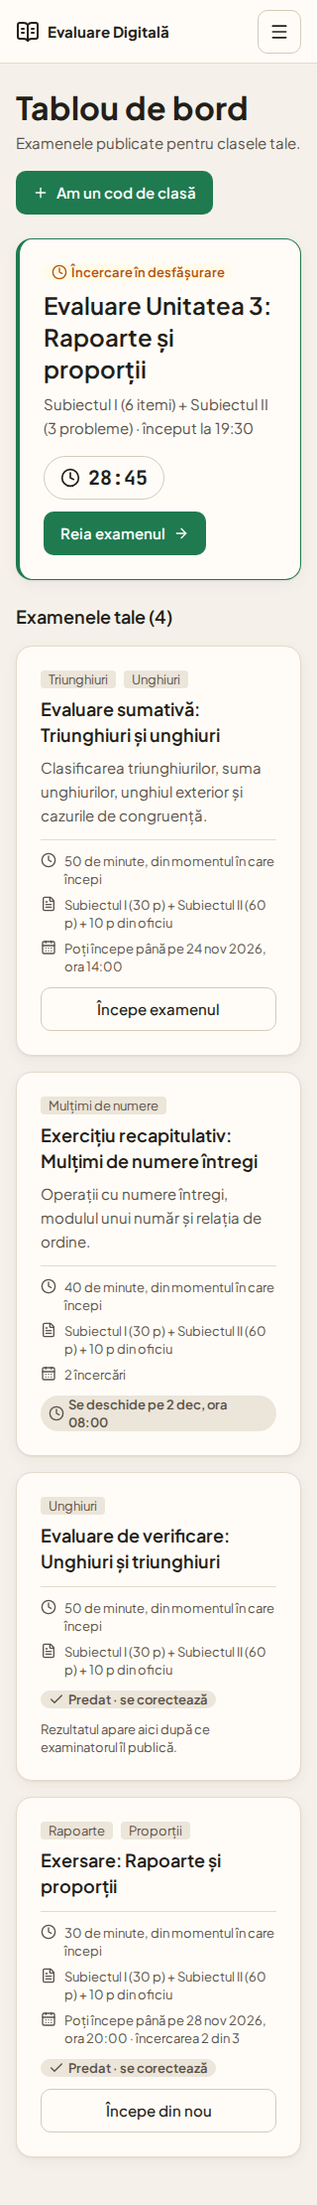
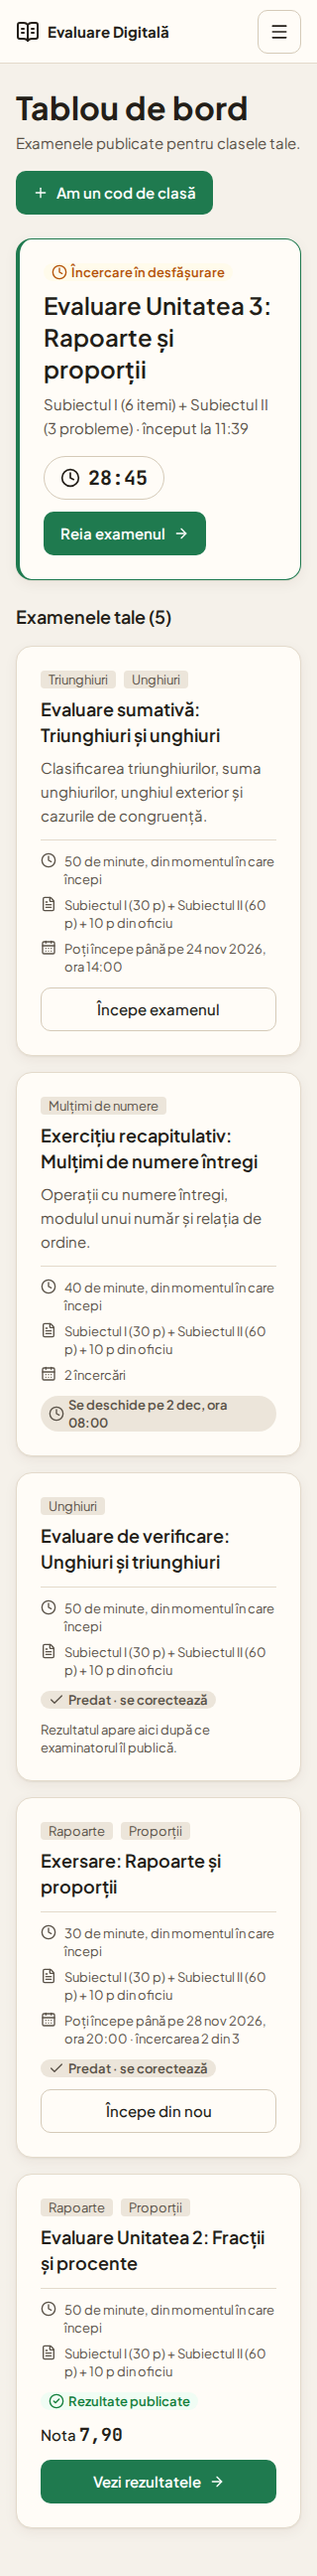
docs(design): DS-005 screenshots (one Attempt, several, long title, not published, error) and DS-003 with the results card, light and dark at 1440 and 320 px; registry: DS-005 implemented (P8b)

diff --git a/frontend/e2e/results.spec.ts b/frontend/e2e/results.spec.ts
@@ -1,0 +1,86 @@
+import { fileURLToPath } from 'node:url'
+import { expect, test, type Page } from '@playwright/test'
+
+// DS-005 screenshots (P8b) with the mock's sample data, compared by eye with docs/design/mocks/DS-005.html.
+const me = { id: 7, first_name: 'Andrei', last_name: 'Ionescu', name: 'Andrei Ionescu', email: 'andrei@exemplu.ro', role: 'candidate', is_active: true, must_change_password: false }
+const s1 = [
+  { position: 1, section: 'subject_1', type: 'single_choice', points: 5, statement: 'Trei sferturi din 48 reprezintă …', options: ['12', '36', '32', '64'],
+    answer: 2, awarded_points: 5, correct: 2, explanation: 'Un sfert din 48 este 12, deci trei sferturi sunt 36.' },
+  { position: 4, section: 'subject_1', type: 'short_answer', points: 5, options: [], answer: '20', awarded_points: 0, correct: '12', explanation: null,
+    statement: 'Numerele a și b sunt direct proporționale cu 3 și 5, iar a + b = 32. Numărul a este egal cu …' },
+  { position: 5, section: 'subject_1', type: 'dual_choice', points: 5, statement: 'Orice număr întreg negativ este mai mic decât 0.', options: [], answer: null, awarded_points: 0, correct: true, explanation: null },
+]
+const barem = [
+  ['Triunghi isoscel ⇒ ∢B = ∢C', 3, 3], ['∢B + ∢C = 140°', 3, 3], ['∢B = 70°', 2, 2], ['Bisectoarea AD, triunghiurile ABD și ACD', 2, 2],
+  ['△ABD ≅ △ACD (LUL), cu justificare', 5, 3], ['BD = DC ⇒ AD mediană', 5, 0],
+].map(([description, points, earned]) => ({ description, points, earned }))
+const s2 = [
+  { position: 7, section: 'subject_2', type: 'structured_problem', points: 20, options: [], awarded_points: 14, adjustment: 1, uses_barem: true, barem,
+    statement: 'În triunghiul ABC, AB = AC și ∢A = 40°. a) Calculează ∢B. b) Arată că bisectoarea din A este și mediană.',
+    answer: 'a) ABC isoscel ⇒ ∢B = ∢C. ∢B + ∢C = 180° − 40° = 140° ⇒ ∢B = 70°.\nb) AD bisectoare. △ABD și △ACD: AB = AC, ∢BAD = ∢CAD, AD comună ⇒ congruente.',
+    images: [{ id: 1, position: 1, name: 'pagina-1.jpg', size: 1 }, { id: 2, position: 2, name: 'pagina-2.jpg', size: 1 }],
+    comment: 'La b) lipsește concluzia BD = DC; justificarea congruenței e incompletă.' },
+  { position: 8, section: 'subject_2', type: 'structured_problem', points: 20, options: [], awarded_points: 16, adjustment: null, uses_barem: false, barem: [], images: [],
+    statement: 'Unghiurile AOB și BOC sunt adiacente suplementare, iar ∢AOB = 3 · ∢BOC. Calculează măsurile celor două unghiuri.',
+    answer: '∢AOB + ∢BOC = 180°, 4 · ∢BOC = 180°, ∢BOC = 45°, ∢AOB = 135°.', comment: 'Corect, dar explică de ce suma este 180°.' },
+  { position: 9, section: 'subject_2', type: 'structured_problem', points: 20, options: [], awarded_points: 0, adjustment: null, uses_barem: false, barem: [], images: [],
+    statement: 'Un produs costă 120 de lei. După o reducere de 15%, cât costă produsul?', answer: null, comment: null },
+]
+const attempt = (id: number, number: number, grade: number, counted: boolean, scores = [25, 44]) => ({
+  id, attempt_number: number, submitted_at: '2026-11-30T07:48:00Z', auto_submitted: false, subject_1_score: scores[0], subject_2_score: scores[1],
+  total_score: Math.round(grade * 10), grade, counted, items: [...s1, ...s2],
+})
+const title = (long: boolean) => long
+  ? 'Evaluare națională pregătitoare interdisciplinară de matematică aplicată și raționament logic pentru clasa a VI-a'
+  : 'Evaluare Unitatea 3: Rapoarte și proporții'
+const results = (many: boolean, long = false) => ({
+  exam: { id: 4, title: title(long), score_policy: 'highest', results_published_at: '2026-12-01T16:20:00Z',
+    cohort_note: 'Greșeala cea mai des întâlnită la Subiectul I: confuzia dintre mărimi direct și invers proporționale (itemul 4). La Subiectul II, nu uitați să scrieți concluzia fiecărei demonstrații.' },
+  attempts: many ? [attempt(50, 1, 6.4, false, [20, 34]), attempt(51, 2, 7.9, true)] : [attempt(51, 1, 7.9, true)],
+})
+const photo = (n: number) => `<svg xmlns="http://www.w3.org/2000/svg" viewBox="0 0 300 400"><rect width="300" height="400" fill="#fffdf8"/>${n === 1
+  ? '<path d="M150 60 L40 330 L260 330 Z M150 60 L150 330" fill="none" stroke="#333" stroke-width="3"/>'
+  : [80, 130, 180, 230].map((y, i) => `<line x1="30" y1="${y}" x2="${i % 2 ? 200 : 260}" y2="${y}" stroke="#555" stroke-width="3"/>`).join('')}</svg>`
+
+async function mockResults(page: Page, status: number, body: object) {
+  await page.route('http://localhost:8000/api/**', (route) => {
+    const path = new URL(route.request().url()).pathname.replace(/^\/api/, '')
+    const image = path.match(/\/images\/(\d+)$/)
+    if (image) return route.fulfill({ status: 200, contentType: 'image/svg+xml', body: photo(Number(image[1])) })
+    if (path === '/user') return route.fulfill({ status: 200, contentType: 'application/json', body: JSON.stringify({ user: me }) })
+    return route.fulfill({ status, contentType: 'application/json', body: JSON.stringify(body) })
+  })
+}
+
+function screenshotPath(name: string) {
+  return fileURLToPath(new URL(`../../docs/design/screens/${name}`, import.meta.url))
+}
+
+const graded = (p: Page) => expect(p.getByTestId('grade')).toBeVisible()
+const states = [
+  { name: '', status: 200, body: results(false), ready: graded },
+  { name: 'many', status: 200, body: results(true), ready: graded },
+  { name: 'long', status: 200, body: results(false, true), ready: graded },
+  { name: 'notyet', status: 409, body: { code: 'results_not_published' }, ready: (p: Page) => expect(p.getByRole('heading', { name: 'Rezultatele nu sunt publicate încă' })).toBeVisible() },
+  { name: 'error', status: 500, body: {}, ready: (p: Page) => expect(p.getByRole('alert')).toBeVisible() },
+]
+
+for (const theme of ['light', 'dark'] as const) {
+  for (const width of [1440, 320]) {
+    for (const s of states) {
+      test(`DS-005 ${s.name || 'results'}, ${theme} at ${width} px`, async ({ page }) => {
+        await mockResults(page, s.status, s.body)
+        await page.addInitScript((t) => {
+          localStorage.setItem('auth_token', '1|e2e')
+          localStorage.setItem('theme', t)
+        }, theme)
+        await page.setViewportSize({ width, height: 900 })
+        await page.goto('/candidate/exams/4/results')
+        await s.ready(page)
+        const suffix = width === 320 ? '.320' : ''
+        const name = s.name ? `.${s.name}` : ''
+        await page.screenshot({ path: screenshotPath(`DS-005${name}.${theme}${suffix}.png`), fullPage: true })
+      })
+    }
+  }
+}

diff --git a/frontend/e2e/candidate.spec.ts b/frontend/e2e/candidate.spec.ts
@@ -4,7 +4,7 @@ import { expect, test, type Page } from '@playwright/test'
 // DS-003 screenshots (P7a) with the mock's sample data, compared by eye with
 // docs/design/mocks/DS-003.html.
 const me = { id: 7, first_name: 'Andrei', last_name: 'Ionescu', name: 'Andrei Ionescu', email: 'andrei@exemplu.ro', role: 'candidate', is_active: true, must_change_password: false }
-const struct = { item_counts: { subject_1: 6, subject_2: 3 }, results_published: false, open_attempt_id: null, open_attempt: null }
+const struct = { item_counts: { subject_1: 6, subject_2: 3 }, results_published: false, grade: null, open_attempt_id: null, open_attempt: null }
 const at = (minutes: number) => new Date(Date.now() + minutes * 60_000).toISOString()
 
 function exams() {
@@ -20,6 +20,9 @@ function exams() {
       max_attempts: 1, attempts_used: 1, state: 'open', can_start: false, submitted: true, topics: ['Unghiuri'] },
     { ...struct, id: 5, title: 'Exersare: Rapoarte și proporții', description: null, duration_minutes: 30, available_from: at(-60), available_until: '2026-11-28T18:00:00Z',
       max_attempts: 3, attempts_used: 1, state: 'open', can_start: true, submitted: true, topics: ['Rapoarte', 'Proporții'] },
+    // P8b: results published, with the counted grade.
+    { ...struct, id: 6, title: 'Evaluare Unitatea 2: Fracții și procente', description: null, duration_minutes: 50, available_from: null, available_until: '2026-11-20T12:00:00Z',
+      max_attempts: 1, attempts_used: 1, state: 'closed', can_start: false, submitted: true, results_published: true, grade: 7.9, topics: ['Rapoarte', 'Proporții'] },
   ]
 }
 
@@ -54,7 +57,7 @@ for (const theme of ['light', 'dark'] as const) {
 
     test(`DS-003 ${theme} at ${width} px`, async ({ page }) => {
       await open(page, theme, width, { accepted: 1, pending: 0 }, exams)
-      await expect(page.getByRole('heading', { name: 'Examenele tale (4)' })).toBeVisible()
+      await expect(page.getByRole('heading', { name: 'Examenele tale (5)' })).toBeVisible()
       await page.screenshot({ path: screenshotPath(`DS-003.${theme}${suffix}.png`), fullPage: true })
     })
 
